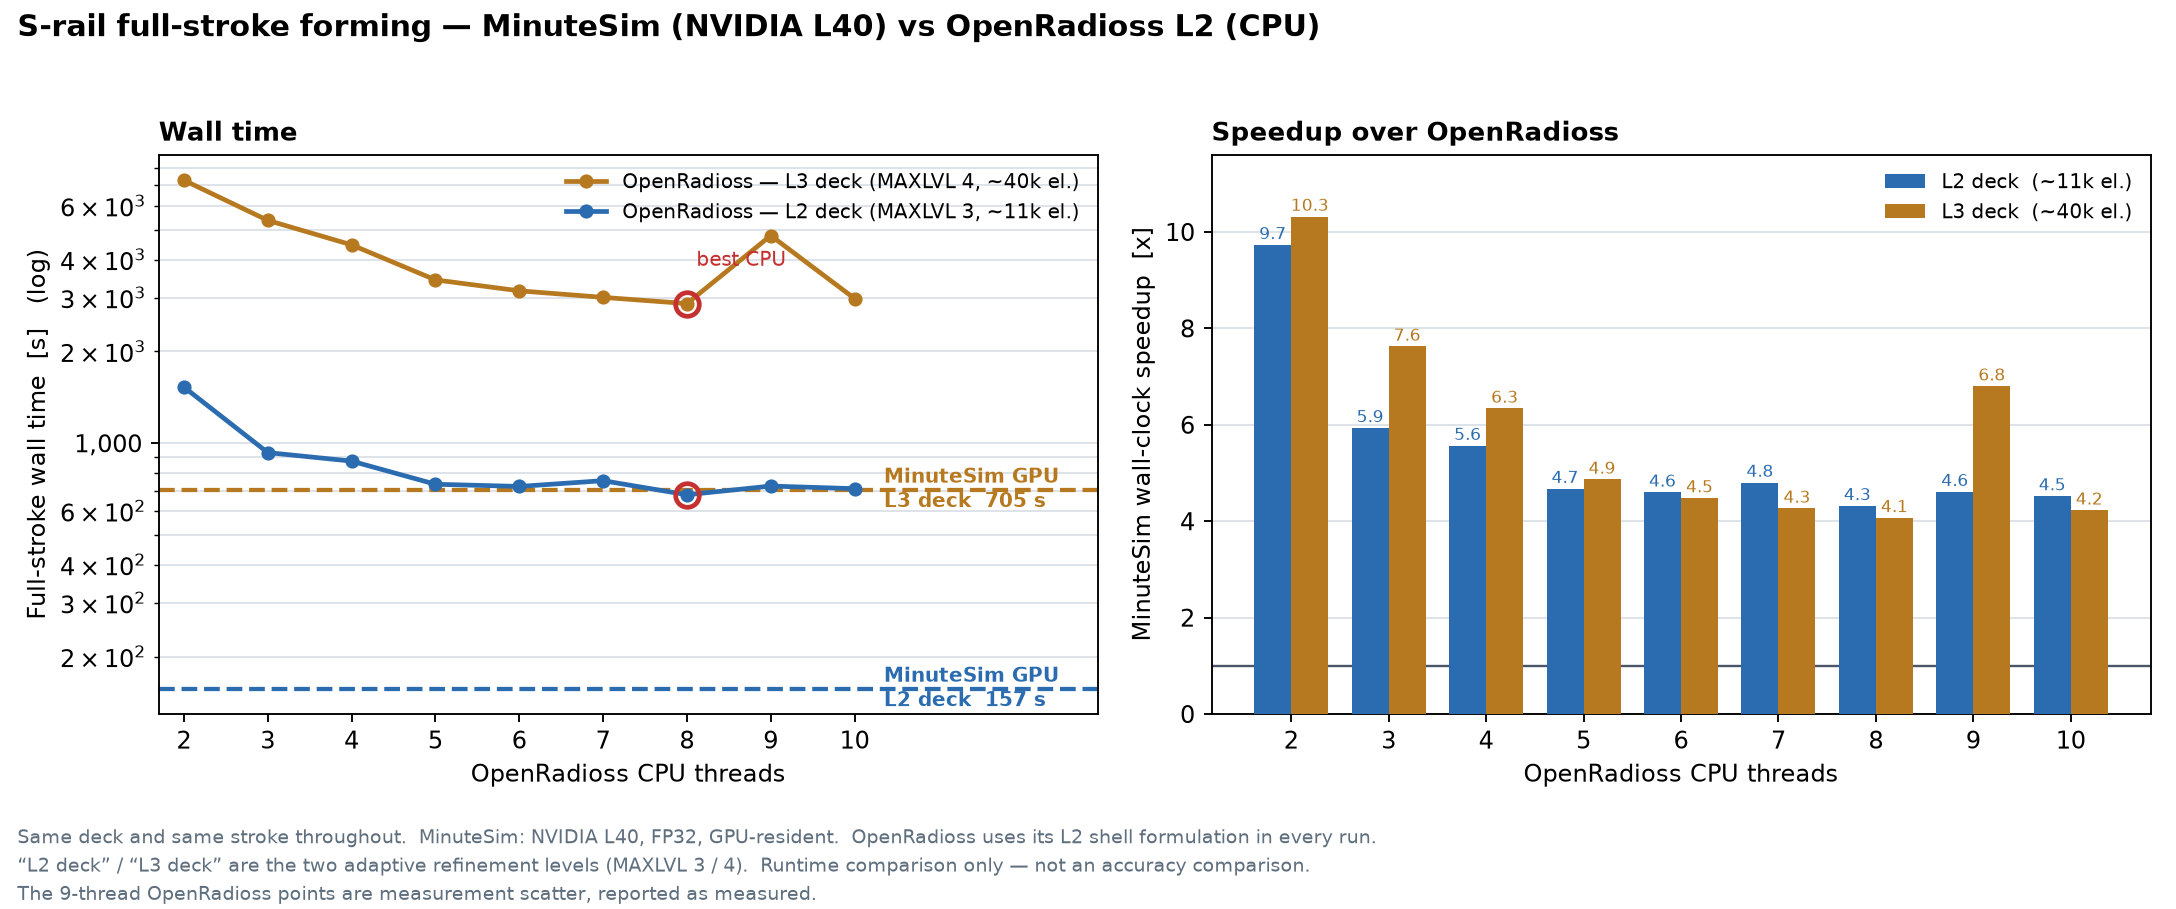
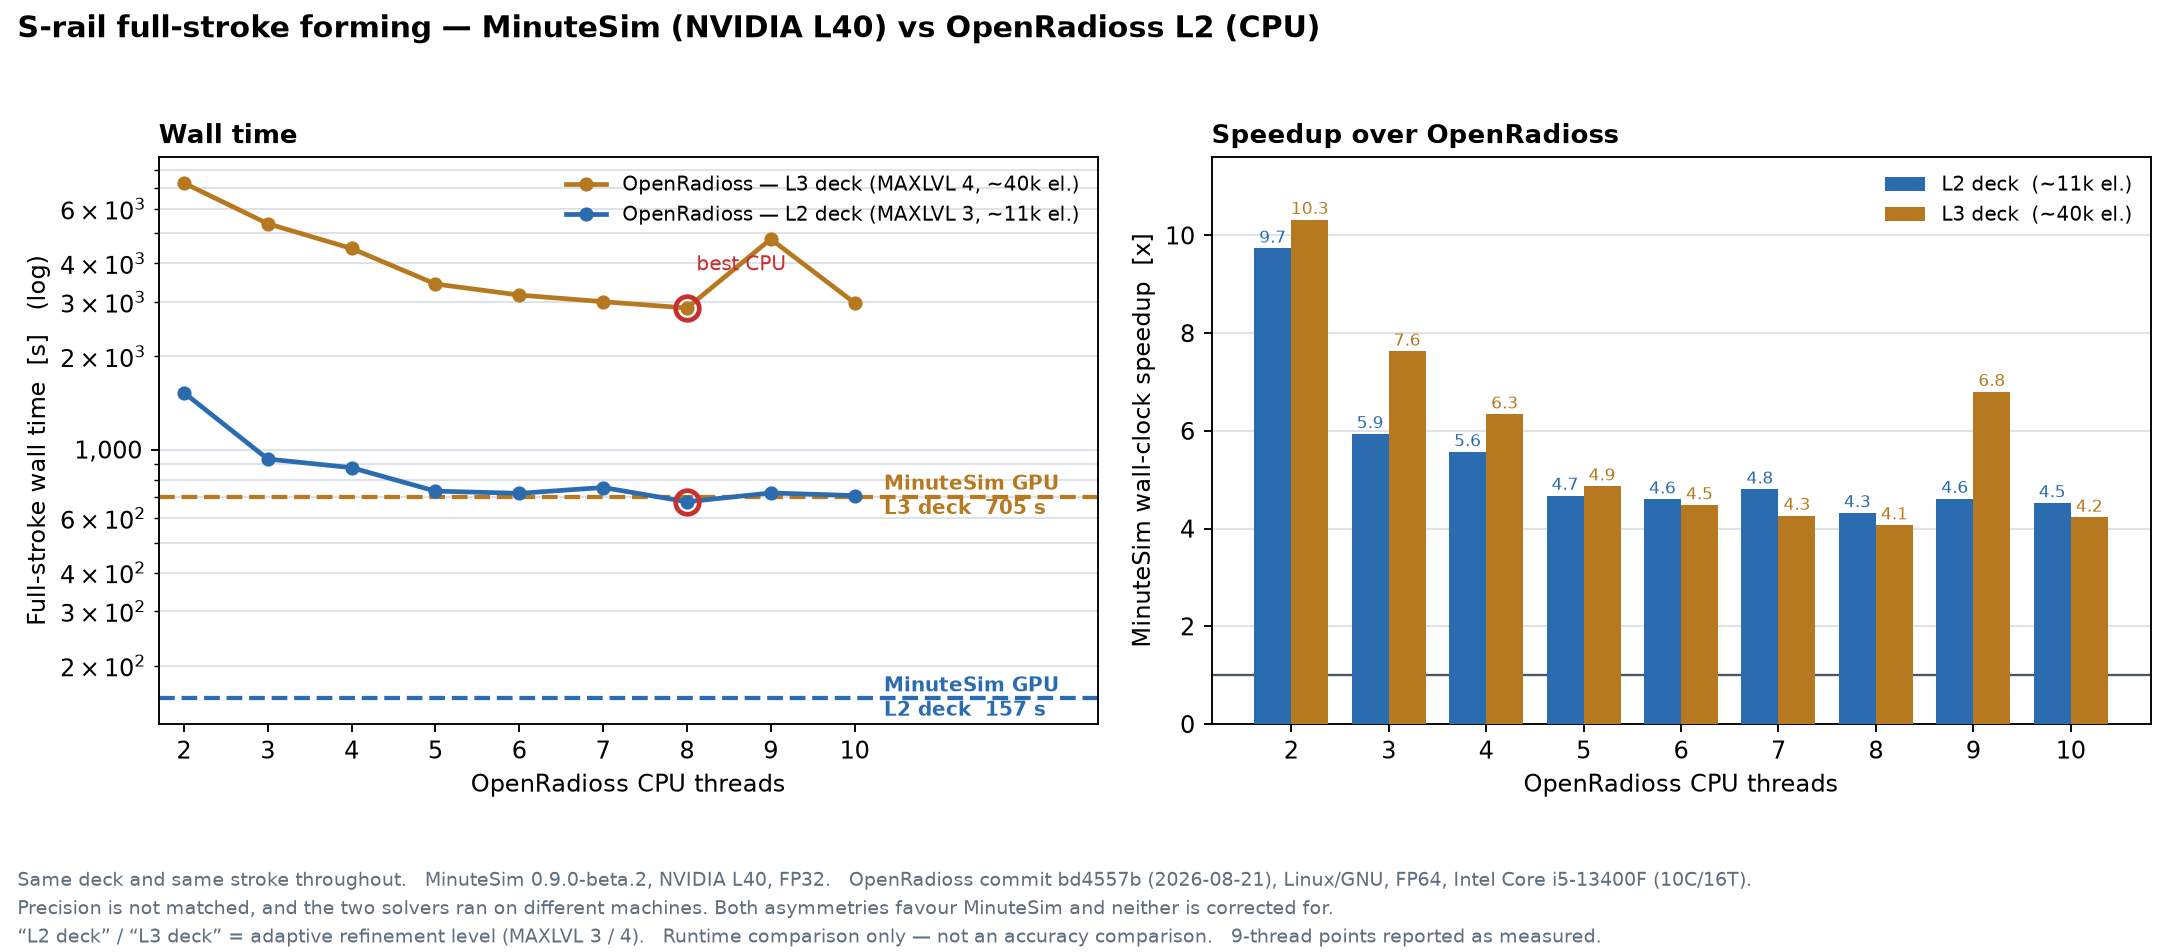
docs: record the S-rail comparison configuration, including its asymmetries
The sweep had no configuration on the page, so the comparison was not
reproducible. It now carries one, and the two ways it is not like-for-like
are stated rather than left for a reader to discover.

Identification
- OpenRadioss is identified by build commit bd4557b (2026-08-21) rather than
  a version number. The only VERSION string in its log is INVERS, which is
  the input deck's format declaration, not the solver, so publishing it as a
  solver version would have been wrong
- host CPU recorded as Intel Core i5-13400F, 10 cores / 16 threads

Two asymmetries, both favouring MinuteSim, both stated
- precision is not matched: MinuteSim FP32 against a double-precision
  OpenRadioss build. No single-precision OpenRadioss build was measured, so
  the size of the effect is unknown rather than estimated
- not a same-workstation comparison: OpenRadioss ran on the i5-13400F, the
  MinuteSim timings are L40 measurements from different hardware. The
  published Nakajima comparison on this page is same-workstation and the
  difference between the two is now visible

Also notes that the i5-13400F is a hybrid part, so thread counts above six
recruit a different class of core. That is offered as context for reading the
scaling curve, not as an explanation of its shape.

The figure footnote carries the same configuration, so the image stays
self-describing when it is viewed outside the page.

diff --git a/assets/shell/srail/render_srail_performance.py b/assets/shell/srail/render_srail_performance.py
@@ -16,7 +16,7 @@ MS_L2, MS_L3 = 157.0, 705.0
 C_L2, C_L3, C_MS2, C_MS3 = "#2b6cb0", "#b7791f", "#2b6cb0", "#b7791f"
 GRID = dict(color="#d8dee6", lw=0.7, zorder=0)
 
-fig, (ax1, ax2) = plt.subplots(1, 2, figsize=(12.8, 5.35))
+fig, (ax1, ax2) = plt.subplots(1, 2, figsize=(12.8, 5.6))
 fig.patch.set_facecolor("white")
 
 # --- left: wall time -----------------------------------------------------------
@@ -68,13 +68,14 @@ ax2.legend(fontsize=8.5, frameon=False)
 fig.suptitle("S-rail full-stroke forming — MinuteSim (NVIDIA L40) vs OpenRadioss L2 (CPU)",
              fontsize=12.5, fontweight="bold", x=0.008, ha="left", y=0.985)
 fig.text(0.008, 0.010,
-         "Same deck and same stroke throughout.  MinuteSim: NVIDIA L40, FP32, GPU-resident.  "
-         "OpenRadioss uses its L2 shell formulation in every run.\n"
-         "“L2 deck” / “L3 deck” are the two adaptive refinement levels (MAXLVL 3 / 4).  "
-         "Runtime comparison only — not an accuracy comparison.\n"
-         "The 9-thread OpenRadioss points are measurement scatter, reported as measured.",
+         "Same deck and same stroke throughout.   MinuteSim 0.9.0-beta.2, NVIDIA L40, FP32.   "
+         "OpenRadioss commit bd4557b (2026-08-21), Linux/GNU, FP64, Intel Core i5-13400F (10C/16T).\n"
+         "Precision is not matched, and the two solvers ran on different machines. Both asymmetries "
+         "favour MinuteSim and neither is corrected for.\n"
+         "“L2 deck” / “L3 deck” = adaptive refinement level (MAXLVL 3 / 4).   "
+         "Runtime comparison only — not an accuracy comparison.   9-thread points reported as measured.",
          fontsize=8, color="#5f6f7e", ha="left", linespacing=1.5)
-fig.tight_layout(rect=(0, 0.105, 1, 0.955))
+fig.tight_layout(rect=(0, 0.135, 1, 0.955))
 out = __import__("sys").argv[1]
 fig.savefig(out, dpi=170, facecolor="white")
 print("wrote", out)

diff --git a/docs/performance.md b/docs/performance.md
@@ -233,6 +233,31 @@ The same deck and the same 9.9 ms stroke throughout. Two adaptive refinement lev
 benchmark, so the comparison is measured at two problem sizes rather than one — see
 [Benchmark Cases](benchmarks.md#s-rail-full-stroke-forming) for the model.
 
+### Configuration
+
+| Item | MinuteSim | OpenRadioss |
+|---|---|---|
+| Version | 0.9.0-beta.2 | Built from source at commit `bd4557b`, 2026-08-21 |
+| Build | Windows, CUDA | Linux 64-bit, GNU compiler |
+| Hardware | NVIDIA L40 | Intel Core i5-13400F — 10 cores / 16 threads |
+| **Precision** | **FP32** | **FP64 (double-precision build)** |
+| Shell formulation | MITC4 (ELFORM 16) | L2 |
+| Timing | Full-stroke wall clock, output enabled | Full-stroke wall clock |
+
+**Two asymmetries matter and are not corrected for.**
+
+**Precision is not matched.** MinuteSim runs single precision; the OpenRadioss build is
+double precision. That difference favours MinuteSim, and no single-precision OpenRadioss build was
+measured, so the size of the effect is unknown rather than estimated.
+
+**This is not a same-workstation comparison.** The OpenRadioss sweep ran on the i5-13400F above;
+the MinuteSim timings are L40 measurements taken on different hardware. The two solvers were not
+run side by side, unlike the published Nakajima comparison earlier on this page.
+
+The i5-13400F is a hybrid design — 6 performance cores and 4 efficiency cores. Thread counts above
+six therefore recruit cores of a different class, which is worth knowing when reading the scaling
+curve, though no attempt is made here to attribute the shape of that curve.
+
 | | L2 deck (`MAXLVL 3`) | L3 deck (`MAXLVL 4`) |
 |---|---:|---:|
 | Blank at start | 675 elements | 675 elements |
@@ -294,6 +319,6 @@ Every number here is a runtime comparison only. **Neither is an accuracy result*
 solution is compared against the S-rail case. Measured shell accuracy is reported in
 [Validation](validation.md).
 
-`UNRESOLVED` — the OpenRadioss version, host CPU, and precision for this sweep are not yet recorded
-on this page. Both solvers ran the same deck and stroke, but until that configuration is stated the
-comparison is not fully reproducible by a third party.
+Read the S-rail figures with the two asymmetries in the configuration table attached: MinuteSim is
+single precision against a double-precision OpenRadioss build, and the two solvers ran on different
+machines. A precision-matched, same-workstation S-rail comparison has not been measured.
